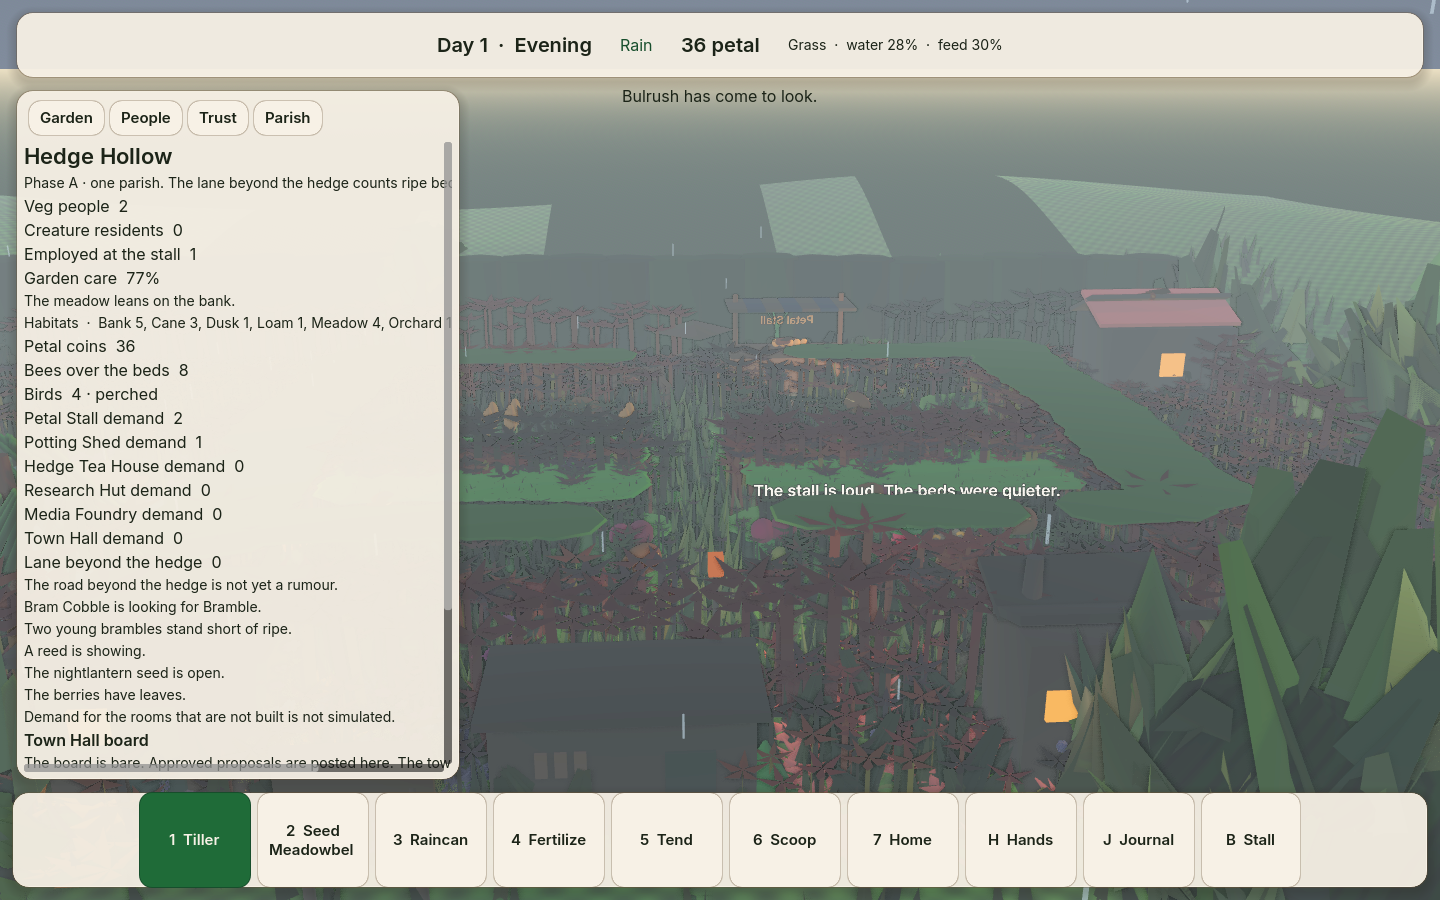
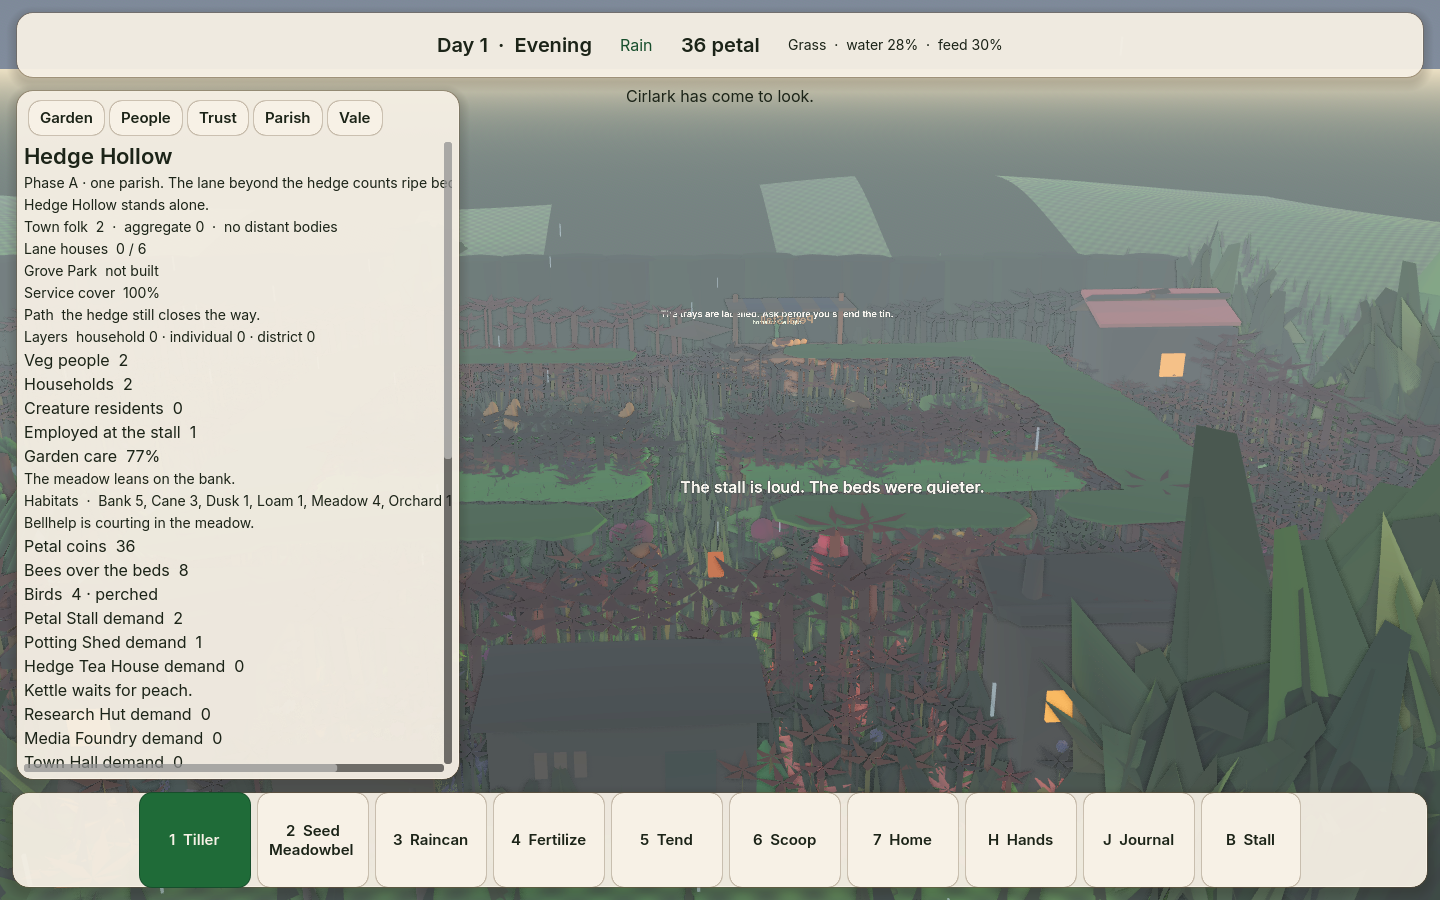
Capture Bellhelp courting on the parish page.
The pass-2 parish frame names the meadow nest beside the habitat tally.

diff --git a/docs/lanes/PETAL-02.md b/docs/lanes/PETAL-02.md
@@ -39,7 +39,7 @@ Merged `petal/08-integration` @ `3402530` first. Three play-feel upgrades on tha
 - Paths: `data/species.json`, `scripts/ecology/ecology_rules.gd`, `scripts/ecology/ecology.gd`, `scripts/game/garden.gd`, `scripts/ui/hud.gd`, `tools/smoke.gd`, `tests/test_systems.gd`, `docs/screenshots/ecology_parish.png`
 - Interface: `EcologyRules.courtship_line`, `forage_line`, `nest_plot_bit`, `romance.nest`; `Ecology.taste_cart`, `Ecology.feed`; garden `feed_inspected`
 - Tests: nest/courtship/forage in `PETAL_RULES_OK` and `SYSTEMS_OK`; garden smoke feeds from the pouch, scents a Thatchmere cart, and nests Berrypatch
-- Visual QA: recapture `ecology_parish.png` with the courtship line on the Parish tab. Qwen3-VL is not operational here.
+- Visual QA: `docs/screenshots/ecology_parish.png` shows `The meadow leans on the bank.`, the habitat tally, and `Bellhelp is courting in the meadow.` Qwen3-VL is not operational here.
 - Did not edit `docs/PETAL_CAMPAIGN_STATE.md` (PETAL-08).
 
 ## Playable now
